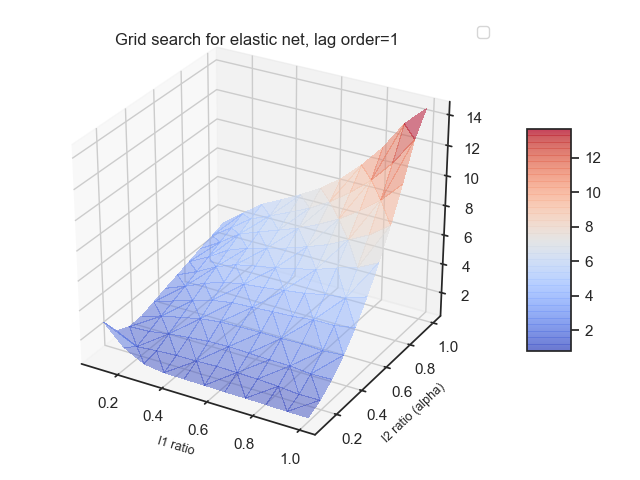
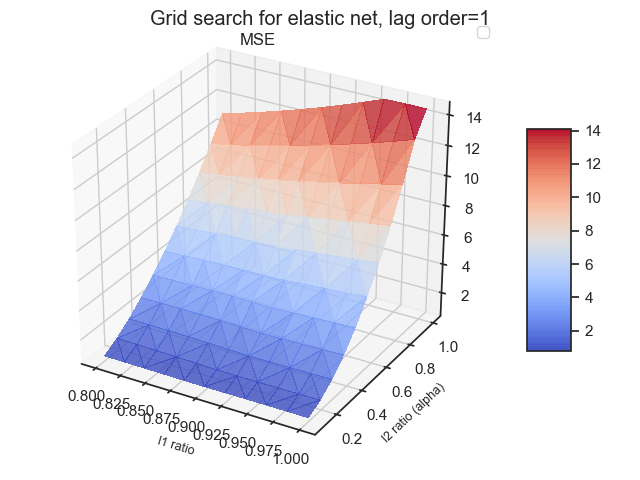
elastic net fcasts

diff --git a/src/models/train_model.py b/src/models/train_model.py
@@ -269,7 +269,7 @@ class ClassicalModels():
 
         fig.tight_layout()
         plt.legend()
-        pth = Path(self.graphics_path, 'yhat_y_AR').with_suffix('.png')
+        pth = Path(self.graphics_path, 'yhat_y_Classical').with_suffix('.png')
         fig.savefig(pth)
         self.logger.info('plotted and saved png file in /reports/figures of forecasts of Classical models vs. actuals')
 
@@ -379,7 +379,7 @@ class MLModels():
             'forecast_t': list()
         }
         EN_params = {
-            'l1_ratio': np.linspace(0.1,1,11),
+            'l1_ratio': np.linspace(0.8, 1.0, 11),#np.linspace(0.1,1,11),
             'alpha': np.linspace(0.1,1,11)
         }
         EN_models = list()
@@ -434,7 +434,6 @@ class MLModels():
         self.EN_forecasts['forecast_t'] = pd.to_datetime(self.EN_forecasts['forecast_t'])
         # error storage
         self.error_metrics_EN = self.EN_forecasts.groupby(['l1_ratio', 'alpha', 'lag']).apply(self._mse).reset_index()
-        self.error_metrics_EN.to_csv('e.csv')
         # save dictionary of models to disk for later use
         with open(Path(self.models_path, 'elastic_net_models').with_suffix('.pkl'), 'wb') as handle:
             pickle.dump(self.EN_models, handle)
@@ -455,7 +454,7 @@ class MLModels():
 
             # Plot the surface.
             surf1 = ax.plot_trisurf(X_one, Y_one, Z_one, cmap=cm.coolwarm,
-                                linewidth=0, antialiased=False, alpha=0.5)
+                                linewidth=0, antialiased=False, alpha=0.8)
 
             # Add a color bar which maps values to colors.
             fig.colorbar(surf1, shrink=0.5, aspect=5)
@@ -472,7 +471,48 @@ class MLModels():
             plt.close()
 
         self.logger.info('plotted and saved png files of error metrics in /reports/figures for elastic net hyperparameters')
-            
+
+    def plot_ML_forecasts(self):
+
+        '''Plots and reports forecats (t+1) for all ML models'''
+    
+        best_en = self.error_metrics_EN.iloc[self.error_metrics_EN['mse'].idxmin()].reset_index().T
+        print(best_en)
+        print(best_en.columns)
+        best_en_forecasts = self.EN_forecasts[
+                                (self.EN_forecasts.l1_ratio == best_en.l1_ratio) &
+                                (self.EN_forecasts.alpha == best_en.alpha) &
+                                (self.EN_forecasts.lag == best_en.lag)
+                            ]
+
+        print(best_en_forecasts)
+
+        # Plot Line1 (Left Y Axis)
+        fig, ax1 = plt.subplots(1,1, figsize=(16,9), dpi= 80)
+        
+        ax1.plot(best_en_forecasts['sasdate'], best_en_forecasts['t_actual'], color='dodgerblue', label='actual')
+        ax1.plot(best_en_forecasts['sasdate'], best_en_forecasts['forecast_t'], color='navy', label=(
+            'elastic net, lag='+str(best_en_forecasts.lag)+
+            'l1='+str(best_en_forecasts.l1_ratio)+
+            'l2='+str(best_en_forecasts.alpha)+
+            ' forecast'), linestyle=":")
+        #ax1.plot(df_Markov['sasdate'], df_Markov['t_forecast'], color='crimson', label=('Markov switching model, lag='+str(chosen_lag_Markov)+' forecast'), linestyle=":")
+
+        # Decorations
+        # ax1 (left Y axis)
+        ax1.set_xlabel('Date', fontsize=20)
+        ax1.tick_params(axis='x', rotation=0, labelsize=12)
+        ax1.set_ylabel('BAAFFM Spread', color='black', fontsize=20)
+        ax1.tick_params(axis='y', rotation=0, labelcolor='black' )
+        ax1.grid(alpha=.4)
+        plt.title('Forecast vs. Realized Values: BAAFFM', weight='bold')
+
+        fig.tight_layout()
+        plt.legend()
+        pth = Path(self.graphics_path, 'yhat_y_ML').with_suffix('.png')
+        fig.savefig(pth)
+        self.logger.info('plotted and saved png file in /reports/figures of forecasts of ML models vs. actuals')
+
 
     def execute_analysis(self):
 
@@ -482,6 +522,7 @@ class MLModels():
         self.reframe_train_val_df(maxlags=6)
         self.train_elastic_net(maxlags=3)
         self.plot_EN_metrics(maxlags=3)
+        self.plot_ML_forecasts()
 
 def main():
     """ Runs training of machine learning models and hyperparameter tuning.
